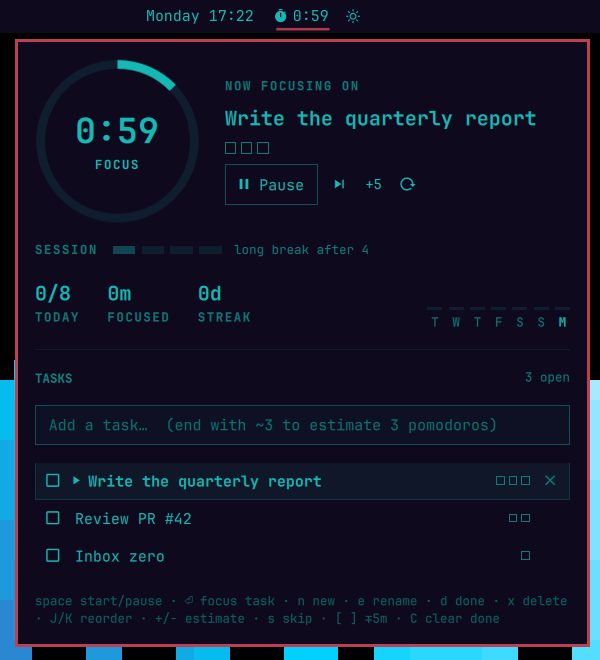
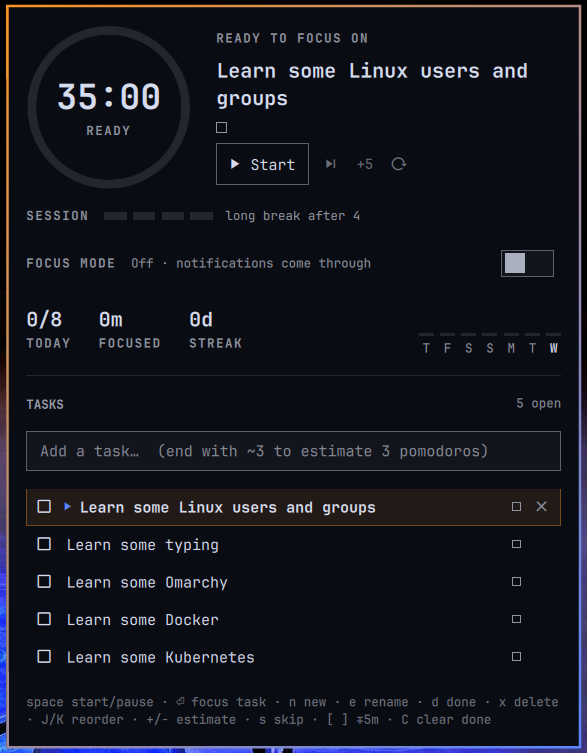
Show focus mode in the preview and panel key hints
Replace preview.png with a screenshot of the 2.1.0 panel, which has the
focus mode row, and add "f focus mode" to the key hints at the bottom of
the panel.

diff --git a/Panel.qml b/Panel.qml
@@ -755,7 +755,7 @@ Panel {
           wrapMode: Text.Wrap
           text: root.fieldFocused
             ? "⏎ save · esc / ↓ back to list"
-            : "space start/pause · ⏎ focus task · n new · e rename · d done · x delete · J/K reorder · +/- estimate · s skip · [ ] ∓5m · C clear done"
+            : "space start/pause · ⏎ focus task · n new · e rename · d done · x delete · J/K reorder · +/- estimate · s skip · [ ] ∓5m · C clear done · f focus mode"
           color: Qt.darker(root.fg, 1.9)
           font.family: root.fontFamily
           font.pixelSize: Style.font.caption
